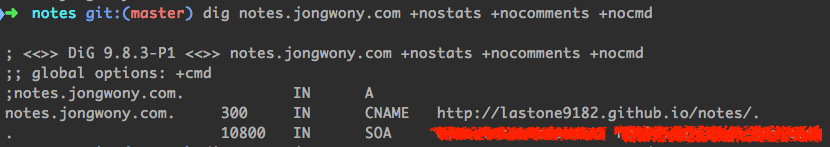
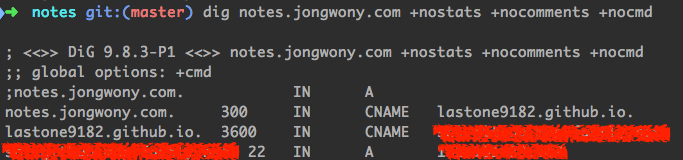
hosting fix

diff --git a/_posts/2017-10-15-github-pages.md b/_posts/2017-10-15-github-pages.md
@@ -46,6 +46,10 @@ GitHub가 알아서 CNAME 파일을 생성해 줌
 
 </div>
 
+호스트 이름이 정확하게 매치되는 경우 정상적인 결과는 아래와 같습니다.
+
+![cname](/image/aws/cname.png)
+
 
 ## Route 53 Hosting
 
